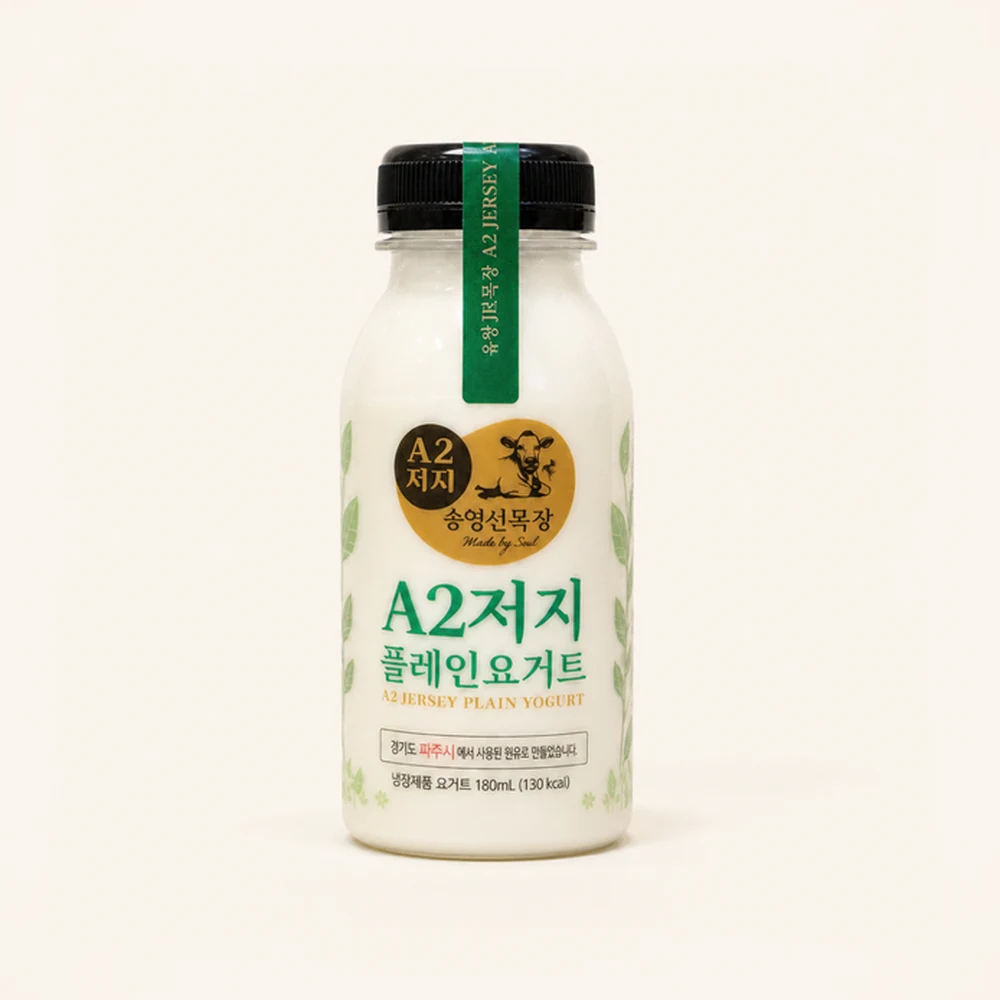
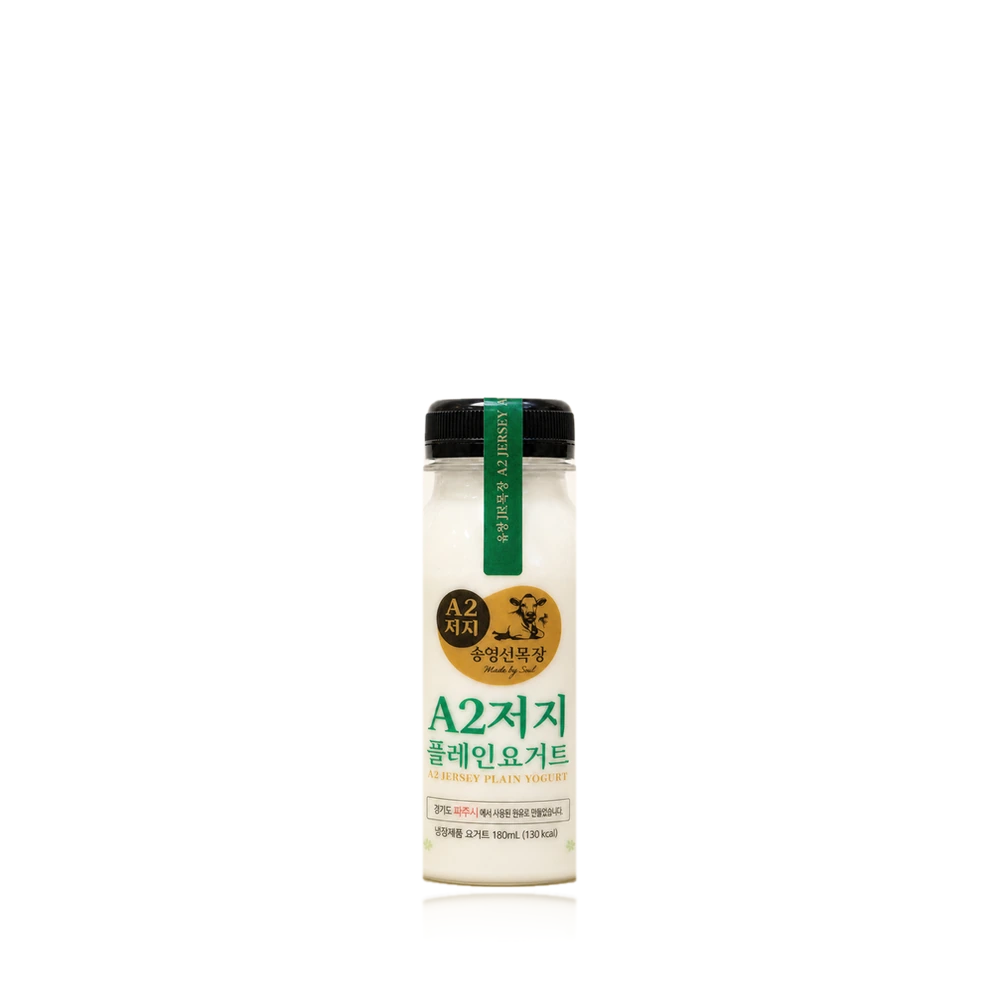
fix(assets): 제품 사진을 실물 병 비율로 맞추고 라인업을 새 라벨 촬영본으로 교체
메인 히어로의 라인업 사진(hero-row-white.jpg)이 옛 종이라벨 시절 촬영본이라
병에 찍힌 열량이 지금 라벨과 달랐다 — 750mL 570kcal · 요거트 500mL 390kcal.
상세페이지는 새 라벨 값(560 · 360)을 쓰고 있어, 손님이 사진과 표를 나란히 보면
숫자가 어긋났다. 수축필름 촬영본 4장으로 다시 합성한다.

개별 제품 사진도 저마다 프레임에 맞춰 크롭돼 있어 180mL 와 750mL 가 화면에서
같은 크기로 보였다. 용량 차이가 사라진 상태였다.

- 네 장이 같은 척도·같은 바닥선을 공유하게 다시 앉혔다. 높이 비율은 실물 라인업
  촬영본(한 프레임·한 렌즈·한 거리라 병끼리 비율이 실물 그대로)에서 쟀다.
  750mL = 1.00 · 500mL = 0.73 · 180mL = 0.57.
- 폭은 개별 촬영본의 원근 왜곡을 되돌렸다. 라벨 띠 폭으로 대조하니 750mL 가 근접
  촬영으로 17% 통통하고 500mL 는 7% 날씬했다. 손님이 받은 실물과 사진이 같아야 한다.
- 병 실루엣은 임계 → 세로 채우기 → 최대 연결 덩어리 순으로 따냈다. 밝기 임계만
  쓰면 좌우 촬영 그림자가 병에 붙어 폭이 부풀고 라벨 옆에 지느러미가 생긴다.

재현 스크립트를 촬영본 옆에 둔다(extract.py: 병 따내기, compose.py: 비율 합성).
라벨이 다시 바뀌면 촬영본만 갈아 끼우고 두 스크립트를 다시 돌리면 된다.

Claude-Session: https://claude.ai/code/session_01NQuLrt3jEvboP7oS73UWGi

Changed region(s): [[0.341, 0.124, 0.713, 0.899]]

diff --git a/assets/product-photos/compose.py b/assets/product-photos/compose.py
@@ -1,0 +1,62 @@
+from PIL import Image, ImageFilter
+import numpy as np, os
+
+CUT = "/tmp/claude-0/-home-user-shop/dc11b519-6731-5468-abca-c317acd34951/scratchpad/bottles"
+
+# 실물 라인업 촬영본에서 잰 병 높이 비율(750mL = 1.000).
+#   개별 촬영본은 저마다 프레임에 맞춰 크롭돼 용량 차이가 사라져 있었다(750 이 2.00배로
+#   과장, 실제는 1.76배). 화면에서 보는 크기가 실제 병 크기와 같아야 한다.
+SCALE = {"milk-750": 1.000, "yogurt-500": 0.7345, "yogurt-180": 0.5690, "milk-180": 0.5679}
+
+# 폭 보정 — 개별 촬영본의 원근 왜곡을 되돌린다.
+#   라인업 촬영본은 네 병이 한 프레임·한 렌즈·한 거리라 병끼리의 비율이 실물 그대로다.
+#   그 라벨 폭 대비 개별 촬영본을 재보니 750mL 는 17% 통통하고(근접 촬영) 500mL 는 7%
+#   날씬했다. 손님이 실물을 받았을 때 사진과 같아야 하므로 라인업 쪽에 맞춘다.
+WIDTH_FIX = {"milk-180": 0.989, "milk-750": 0.854, "yogurt-500": 1.070, "yogurt-180": 1.013}
+
+def scaled(pid, h750):
+    im = Image.open(f"{CUT}/{pid}.png").convert("RGBA")
+    h = round(h750 * SCALE[pid])
+    w = round(im.size[0] * h / im.size[1] * WIDTH_FIX[pid])
+    return im.resize((w, h), Image.LANCZOS)
+
+def reflection(bottle, frac=0.22, opacity=92):
+    """바닥 반사 — 원본 라인업 촬영본의 거울 바닥을 살린다."""
+    w, h = bottle.size
+    rh = int(h * frac)
+    ref = bottle.transpose(Image.FLIP_TOP_BOTTOM).crop((0, 0, w, rh))
+    alpha = np.asarray(ref.split()[3]).astype(float)
+    fade = (np.linspace(1.0, 0.0, rh) ** 1.7)[:, None] * (opacity / 255)
+    ref.putalpha(Image.fromarray((alpha * fade).astype(np.uint8), "L"))
+    return ref.filter(ImageFilter.GaussianBlur(1.1))
+
+def place(canvas, bottle, cx, baseline, frac=0.22):
+    w, h = bottle.size
+    x = int(cx - w / 2)
+    canvas.alpha_composite(reflection(bottle, frac), (x, baseline))
+    canvas.alpha_composite(bottle, (x, baseline - h))
+
+# ── A. 개별 제품 사진 ─────────────────────────────────────────────────────
+#   네 장이 같은 척도·같은 바닥선을 공유한다. 쇼케이스에서 나란히 놓였을 때
+#   180mL 옆의 750mL 가 실제만큼 커 보이게 하려면 캔버스 척도가 같아야 한다.
+S, H750, BASE = 1000, 872, 890
+for pid in SCALE:
+    b = scaled(pid, H750)
+    c = Image.new("RGBA", (S, S), (0, 0, 0, 0))
+    place(c, b, S / 2, BASE, frac=0.12)
+    p = f"public/products/{pid}-bottle.webp"
+    c.save(p, "WEBP", quality=92, method=6)
+    print(f"{pid:12s} 병 {b.size}  → {os.path.getsize(p)//1024}KB")
+
+# ── B. 메인 히어로 라인업(1600×1195) — 실물 진열 순서 ─────────────────────
+LW, LH, HL, BASEL = 1600, 1195, 840, 1000
+row = Image.new("RGBA", (LW, LH), (255, 255, 255, 255))
+order = ["milk-180", "milk-750", "yogurt-500", "yogurt-180"]
+bots = {p: scaled(p, HL) for p in order}
+gap = 52
+x = (LW - (sum(b.size[0] for b in bots.values()) + gap * 3)) / 2
+for p in order:
+    place(row, bots[p], x + bots[p].size[0] / 2, BASEL)
+    x += bots[p].size[0] + gap
+row.convert("RGB").save("public/brand/hero-row-white.jpg", quality=90, optimize=True, progressive=True)
+print(f"라인업 {row.size} → {os.path.getsize('public/brand/hero-row-white.jpg')//1024}KB")

diff --git a/assets/product-photos/extract.py b/assets/product-photos/extract.py
@@ -1,0 +1,48 @@
+from PIL import Image, ImageFilter
+from scipy import ndimage
+import numpy as np, os
+
+SRC = "assets/product-photos"
+OUT = "/tmp/claude-0/-home-user-shop/dc11b519-6731-5468-abca-c317acd34951/scratchpad/bottles"
+FILES = {
+    "milk-180":   "a2-jersey-hay-milk-180ml.png",
+    "milk-750":   "a2-jersey-hay-milk-750ml.png",
+    "yogurt-180": "a2-jersey-plain-yogurt-180ml.png",
+    "yogurt-500": "a2-jersey-plain-yogurt-500ml.png",
+}
+
+def cutout(path, strong=95):
+    """촬영본에서 병 몸통만 따낸다.
+       배경은 균일한 크림색이지만 병 좌우에 부드러운 그림자가 깔려 있다. 밝기 임계만 쓰면
+       그 그림자 조각이 병에 붙어 폭이 부풀고 라벨 옆에 지느러미가 생긴다.
+       임계 → 세로 채우기 → 가장 큰 연결 덩어리만 남기기 순으로 몸통 실루엣을 얻는다."""
+    im = Image.open(path).convert("RGB")
+    a = np.asarray(im).astype(int)
+    H, W, _ = a.shape
+    bg = np.median(np.concatenate([a[:8, :].reshape(-1, 3), a[-8:, :].reshape(-1, 3)]), 0)
+    m = np.abs(a - bg).sum(2) > strong
+
+    # 병 내부(배경색과 비슷한 크림 부분)를 세로로 메운다. 가로로는 메우지 않는다 —
+    # 목 옆 잡티 사이가 이어져 어깨에 없는 턱이 생긴다.
+    fill = np.zeros_like(m)
+    for x in range(W):
+        c = np.where(m[:, x])[0]
+        if len(c) and (c.max() - c.min()) > H * 0.02:
+            fill[c.min():c.max() + 1, x] = True
+
+    lab, n = ndimage.label(fill)
+    if n > 1:
+        sizes = ndimage.sum(fill, lab, range(1, n + 1))
+        fill = lab == (int(np.argmax(sizes)) + 1)
+    fill = ndimage.binary_fill_holes(fill)
+
+    am = Image.fromarray((fill * 255).astype(np.uint8), "L")
+    am = am.filter(ImageFilter.MedianFilter(5)).filter(ImageFilter.GaussianBlur(0.9))
+    rgba = im.convert("RGBA"); rgba.putalpha(am)
+    return rgba.crop(rgba.getbbox())
+
+os.makedirs(OUT, exist_ok=True)
+for pid, fn in FILES.items():
+    cut = cutout(os.path.join(SRC, fn))
+    cut.save(f"{OUT}/{pid}.png")
+    print(f"{pid:12s} {cut.size}  h/w={cut.size[1]/cut.size[0]:.2f}")
